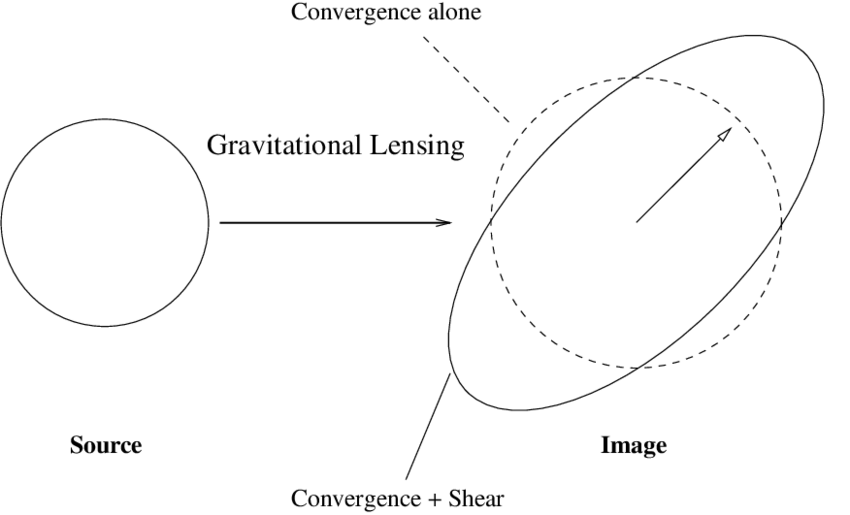
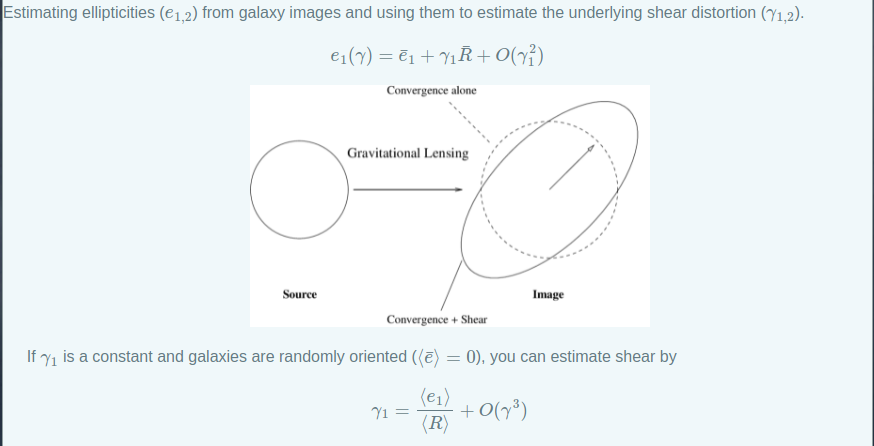
display eqs

diff --git a/README.html b/README.html
@@ -77,7 +77,6 @@
     code span.wa { color: #60a0b0; font-weight: bold; font-style: italic; } /* Warning */
   </style>
   <link rel="stylesheet" href="http://gfarm.ipmu.jp/~xiangchong.li/me/mystyle.css" />
-  <script src="https://cdn.jsdelivr.net/npm/mathjax@3/es5/tex-chtml-full.js" type="text/javascript"></script>
   <!--[if lt IE 9]>
     <script src="//cdnjs.cloudflare.com/ajax/libs/html5shiv/3.7.3/html5shiv-printshiv.min.js"></script>
   <![endif]-->
@@ -91,13 +90,9 @@ cd meaShear
 pip install .</code></pre>
 <h2 id="about-the-code">About the code</h2>
 <h3 id="shear-estimation">shear estimation</h3>
-Estimating ellipticities (<span class="math inline">\(e_{1,2}\)</span>) from galaxy images and using them to estimate the underlying shear distortion (<span class="math inline">\(\gamma_{1,2}\)</span>). <span class="math display">\[e_{1}(\gamma)=\bar{e}_1+ \gamma_1 \bar{R} + O(\gamma_1^2)\]</span>
 <p align="center">
-<img src="fig/shear_distort.png" alt="shear" width="400">
+<img src="fig/shear_distort.png" alt="shear" width="800">
 </p>
-<p>If <span class="math inline">\(\gamma_1\)</span> is a constant and galaxies are randomly oriented (<span class="math inline">\(\langle \bar{e} \rangle=0\)</span>), you can estimate shear by</p>
-<p><span class="math display">\[\gamma_1 = \frac{\left\langle e_{1}\right\rangle}{\left\langle R
-\right\rangle}+ O(\gamma^3)\]</span></p>
 <div class="sourceCode" id="cb2"><pre class="sourceCode python"><code class="sourceCode python"><span id="cb2-1"><a href="#cb2-1" aria-hidden="true" tabindex="-1"></a></span>
 <span id="cb2-2"><a href="#cb2-2" aria-hidden="true" tabindex="-1"></a><span class="im">import</span> meaShear</span>
 <span id="cb2-3"><a href="#cb2-3" aria-hidden="true" tabindex="-1"></a><span class="im">import</span> numpy <span class="im">as</span> np</span>
@@ -134,7 +129,7 @@ Estimating ellipticities (<span class="math inline">\(e_{1,2}\)</span>) from gal
 <ul>
 <li>Test to make sure the code requires the inputs galaxies and PSF images are ndarrays</li>
 <li>Test to make sure that if the input image has values that are problematic, like NaN or Inf, the code does something reasonable</li>
-<li>Test to make sure the tuning parameters in reasonable ranges (<span class="math inline">\(0&lt;\)</span>scale_par<span class="math inline">\(&lt;1\)</span>), (weight_par<span class="math inline">\(&gt;0\)</span>)</li>
+<li>Test to make sure the tuning parameters in reasonable ranges (0&lt;scale_par&lt;1), (weight_par&gt;0)</li>
 </ul></li>
 </ul>
 <h3 id="example">Example</h3>
